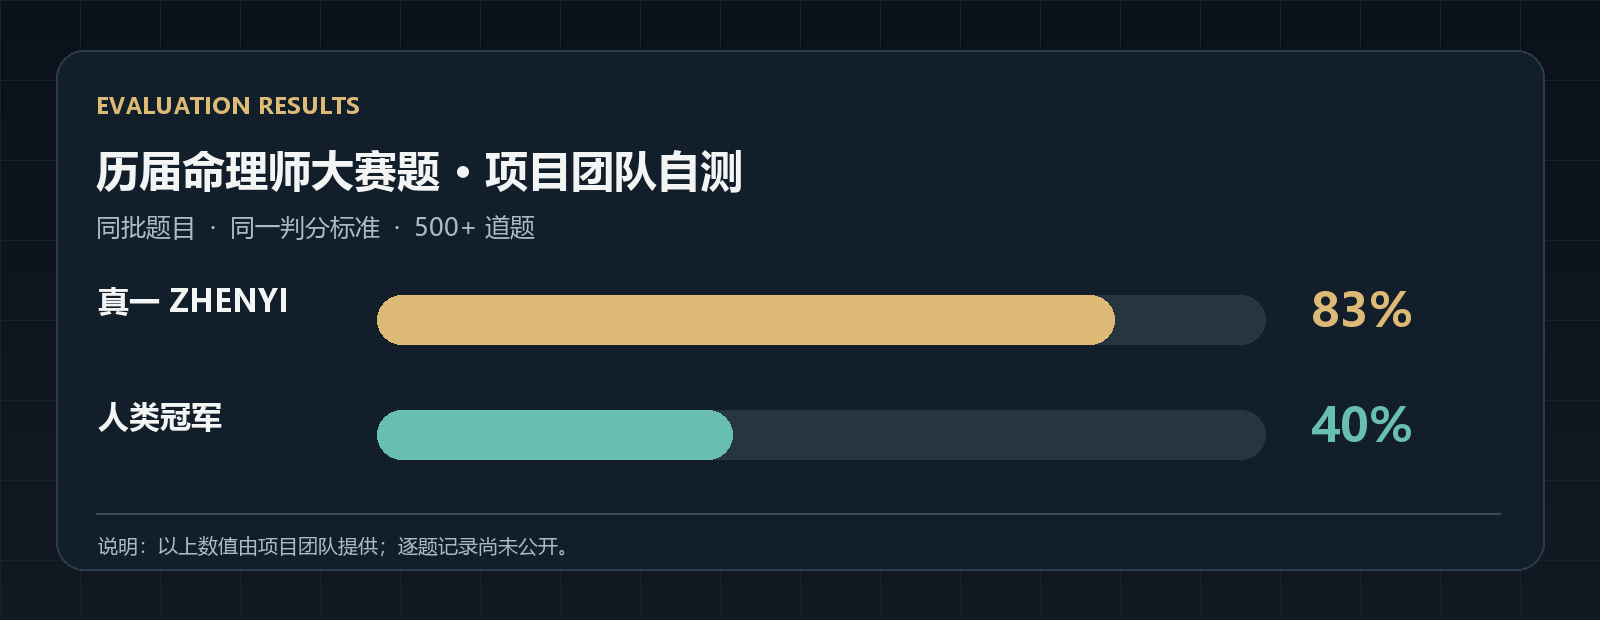
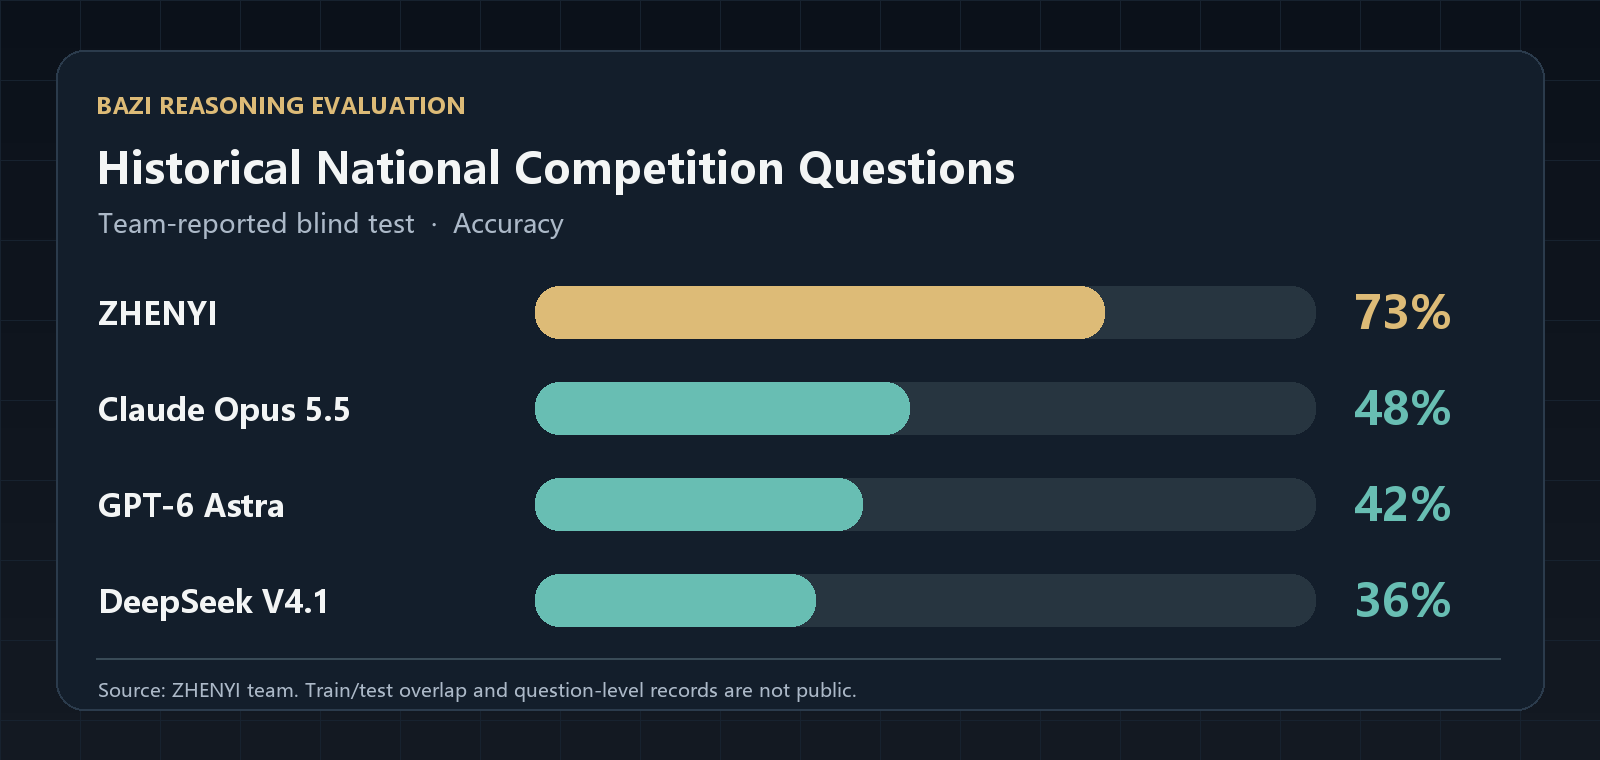
docs: publish ZHENYI model card and technical figures

diff --git a/README.md b/README.md
@@ -51,11 +51,18 @@
 
 ## 评测结果
 
-![真一评测结果：项目团队自测 83%，人类冠军 40%](docs/assets/evaluation.png)
+![全国算命师历年大赛题目评测：真一 73%，Claude Opus 5.5 48%，GPT-6 Astra 42%，DeepSeek V4.1 36%](docs/assets/evaluation.png)
 
-项目团队使用历届全球命理师大赛的 **500 多道题**测试真一。按团队提供的信息，在同批题目、同一判分标准下，真一正确率为 **83%**，人类冠军为 **40%**。这个结果让我们震惊，也让我们更想继续检验它。
+项目团队以**全国算命师历年大赛题目**对真一和通用模型进行了对比测试，并称本次为盲测。团队提供的准确率如下：
 
-> **评测说明：**以上数字由项目团队提供。逐题题目、模型回答与判分记录尚未公开，因此目前属于团队自测结果，尚无可独立复核的公开报告。后续欢迎社区共同设计新的公开评测。
+| 模型 | 准确率 |
+| --- | ---: |
+| **真一 ZHENYI** | **73%** |
+| Claude Opus 5.5 | 48% |
+| GPT-6 Astra | 42% |
+| DeepSeek V4.1 | 36% |
+
+> **评测说明：**以上准确率和“盲测”说法由项目团队提供。逐题题目、模型回答、判分记录、训练集重合情况及各模型运行配置尚未公开，结果目前无法独立复核；DeepSeek V4.1 的具体版本也待补充。后续欢迎社区共同设计公开评测。
 
 ## 模型下载
 
